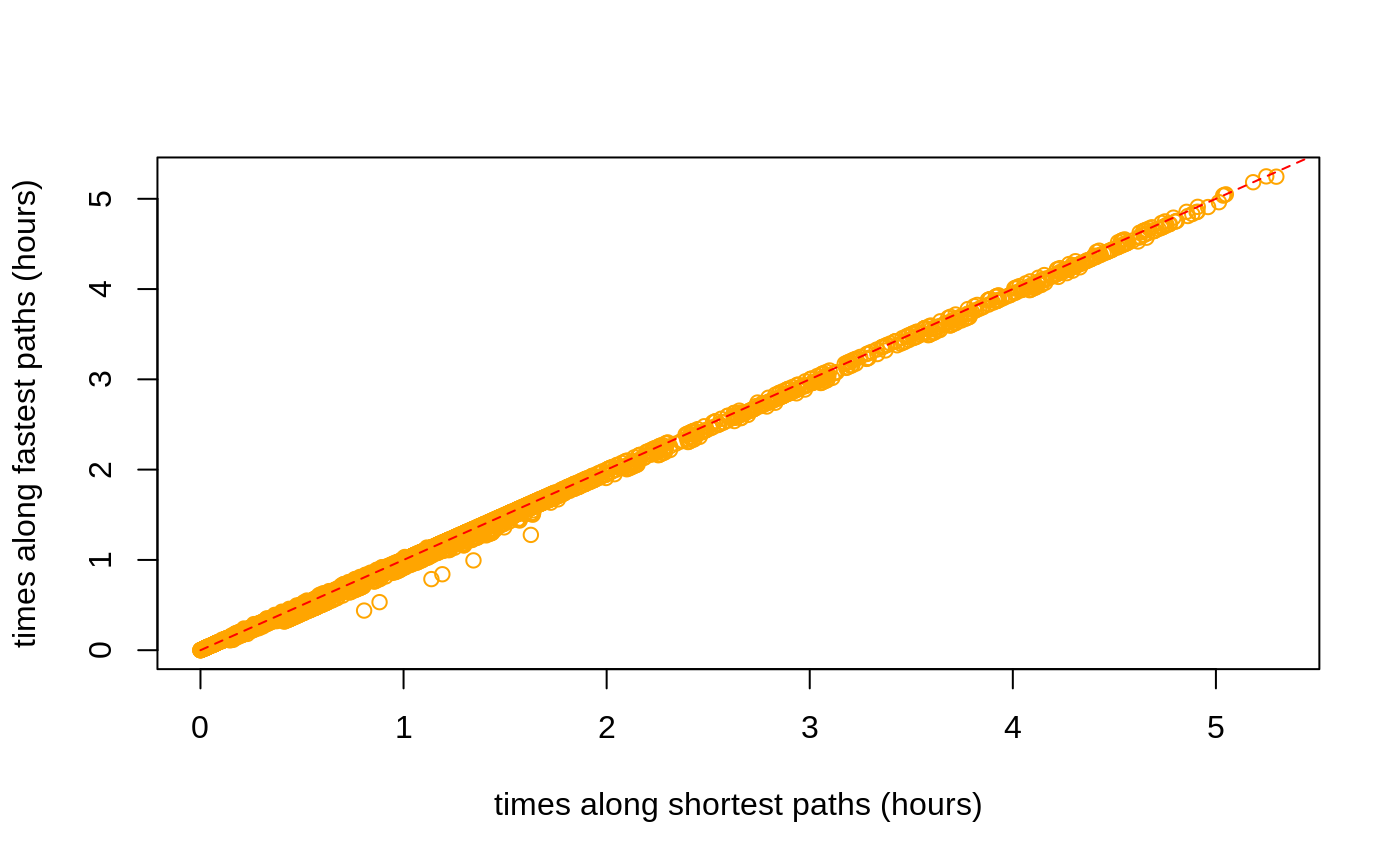
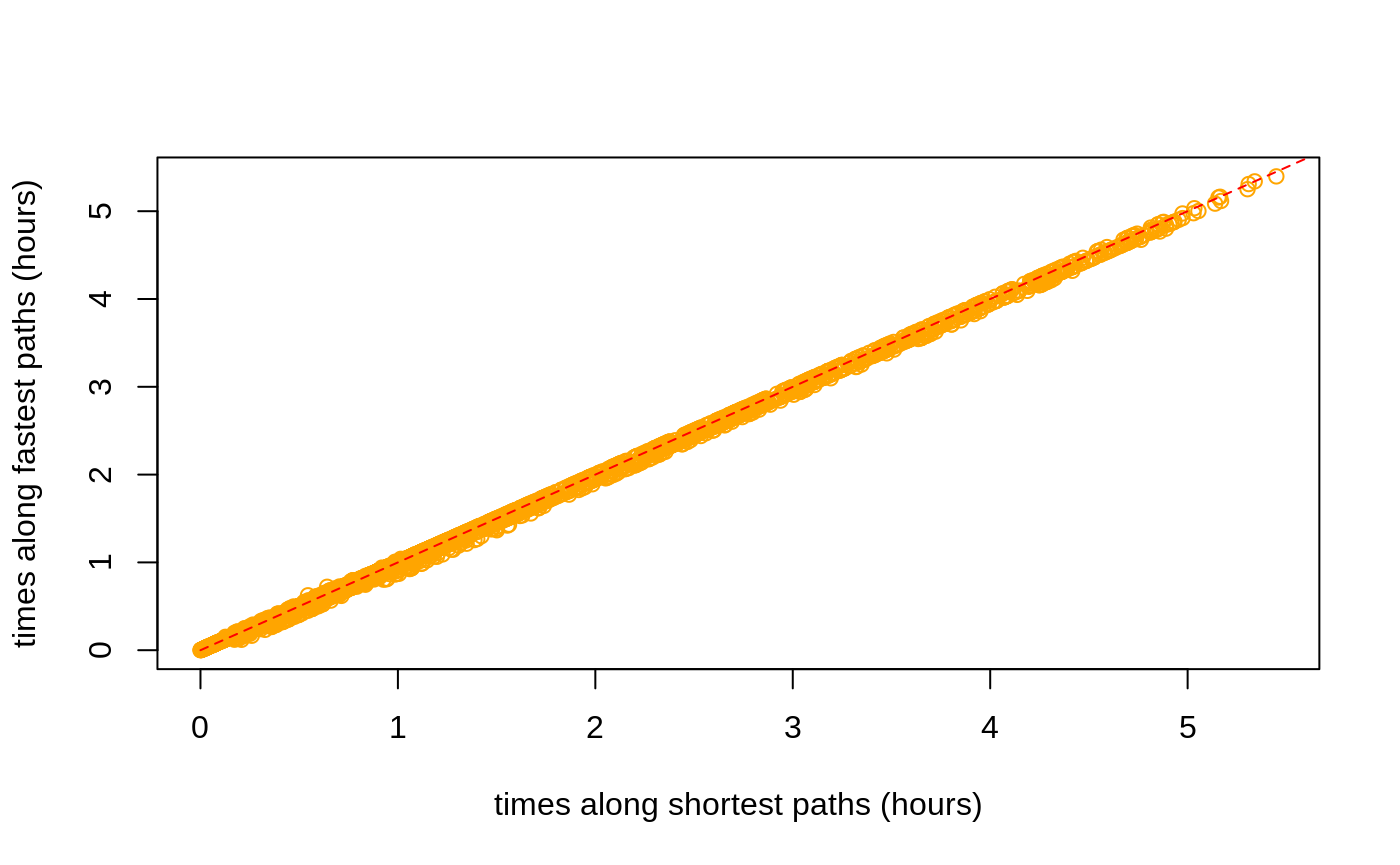
Built site for dodgr: 0.2.0.5@3d58140

diff --git a/articles/dodgr.html b/articles/dodgr.html
@@ -68,7 +68,7 @@
       <h1>dodgr</h1>
                         <h4 class="author">Mark Padgham</h4>
             
-            <h4 class="date">2019-08-14</h4>
+            <h4 class="date">2019-08-18</h4>
       
       <small class="dont-index">Source: <a href="https://github.com/ATFutures/dodgr/blob/master/vignettes/dodgr.Rmd"><code>vignettes/dodgr.Rmd</code></a></small>
       <div class="hidden name"><code>dodgr.Rmd</code></div>
@@ -344,7 +344,7 @@ Figure 2: A <strong>dual</strong>-weighted, directed graph in which the weights 
 <p>The <code>dodgr</code> packages includes a function to select a random connected portion of graph including a specified number of vertices. This function is used in the <a href="https://atfutures.github.io/dodgr/reference/compare_heaps.html"><code><a href="../reference/compare_heaps.html">compare_heaps()</a></code></a> function described below, but is also useful for general statistical analyses of large graphs which may otherwise take too long to compute.</p>
 <div class="sourceCode" id="cb59"><pre class="sourceCode r"><code class="sourceCode r"><a class="sourceLine" id="cb59-1" data-line-number="1">graph_sub &lt;-<span class="st"> </span><span class="kw"><a href="../reference/dodgr_sample.html">dodgr_sample</a></span> (graph, <span class="dt">nverts =</span> <span class="dv">100</span>)</a>
 <a class="sourceLine" id="cb59-2" data-line-number="2"><span class="kw"><a href="https://www.rdocumentation.org/packages/base/topics/nrow">nrow</a></span> (graph_sub)</a></code></pre></div>
-<pre><code>## [1] 201</code></pre>
+<pre><code>## [1] 199</code></pre>
 <p>The random sample has around twice as many edges as vertices, in accordance with the statistics calculated above.</p>
 <div class="sourceCode" id="cb61"><pre class="sourceCode r"><code class="sourceCode r"><a class="sourceLine" id="cb61-1" data-line-number="1"><span class="kw"><a href="https://www.rdocumentation.org/packages/base/topics/nrow">nrow</a></span> (<span class="kw"><a href="../reference/dodgr_vertices.html">dodgr_vertices</a></span> (graph_sub))</a></code></pre></div>
 <pre><code>## [1] 100</code></pre>
@@ -421,31 +421,31 @@ Figure 2: A <strong>dual</strong>-weighted, directed graph in which the weights 
 <p>The comparisons are actually made on a randomly selected sub-component of the graph containing a defined number of vertices (with a default of 1,000, or the entire graph if it contains fewer than 1,000 vertices).</p>
 <div class="sourceCode" id="cb77"><pre class="sourceCode r"><code class="sourceCode r"><a class="sourceLine" id="cb77-1" data-line-number="1"><span class="kw"><a href="../reference/compare_heaps.html">compare_heaps</a></span> (graph, <span class="dt">nverts =</span> <span class="dv">100</span>, <span class="dt">replications =</span> <span class="dv">1</span>)</a></code></pre></div>
 <pre><code>##                                                                                   test
-## 6       d &lt;- dodgr_dists(graph_contracted, from = from_id, to = to_id, heap = "BHeap")
+## 12                  d &lt;- igraph::distances(igr, v = from_id, to = to_id, mode = "out")
 ## 7       d &lt;- dodgr_dists(graph_contracted, from = from_id, to = to_id, heap = "FHeap")
 ## 8     d &lt;- dodgr_dists(graph_contracted, from = from_id, to = to_id, heap = "TriHeap")
 ## 9  d &lt;- dodgr_dists(graph_contracted, from = from_id, to = to_id, heap = "TriHeapExt")
 ## 10     d &lt;- dodgr_dists(graph_contracted, from = from_id, to = to_id, heap = "Heap23")
-## 12                  d &lt;- igraph::distances(igr, v = from_id, to = to_id, mode = "out")
-## 5                 d &lt;- dodgr_dists(graph, from = from_id, to = to_id, heap = "Heap23")
 ## 11        d &lt;- dodgr_dists(graph_contracted, from = from_id, to = to_id, heap = "set")
-## 1                  d &lt;- dodgr_dists(graph, from = from_id, to = to_id, heap = "BHeap")
-## 2                  d &lt;- dodgr_dists(graph, from = from_id, to = to_id, heap = "FHeap")
+## 5                 d &lt;- dodgr_dists(graph, from = from_id, to = to_id, heap = "Heap23")
+## 6       d &lt;- dodgr_dists(graph_contracted, from = from_id, to = to_id, heap = "BHeap")
 ## 3                d &lt;- dodgr_dists(graph, from = from_id, to = to_id, heap = "TriHeap")
 ## 4             d &lt;- dodgr_dists(graph, from = from_id, to = to_id, heap = "TriHeapExt")
+## 1                  d &lt;- dodgr_dists(graph, from = from_id, to = to_id, heap = "BHeap")
+## 2                  d &lt;- dodgr_dists(graph, from = from_id, to = to_id, heap = "FHeap")
 ##    replications elapsed relative user.self sys.self user.child sys.child
-## 6             1   0.002      1.0     0.002    0.000          0         0
-## 7             1   0.002      1.0     0.002    0.000          0         0
-## 8             1   0.002      1.0     0.002    0.000          0         0
-## 9             1   0.002      1.0     0.002    0.000          0         0
-## 10            1   0.002      1.0     0.002    0.000          0         0
-## 12            1   0.002      1.0     0.002    0.000          0         0
-## 5             1   0.003      1.5     0.003    0.000          0         0
-## 11            1   0.003      1.5     0.003    0.000          0         0
-## 1             1   0.004      2.0     0.005    0.000          0         0
-## 2             1   0.004      2.0     0.000    0.004          0         0
-## 3             1   0.004      2.0     0.004    0.000          0         0
-## 4             1   0.004      2.0     0.004    0.000          0         0</code></pre>
+## 12            1   0.001        1     0.001    0.000          0         0
+## 7             1   0.002        2     0.002    0.000          0         0
+## 8             1   0.002        2     0.003    0.000          0         0
+## 9             1   0.002        2     0.002    0.000          0         0
+## 10            1   0.002        2     0.003    0.000          0         0
+## 11            1   0.002        2     0.002    0.000          0         0
+## 5             1   0.003        3     0.003    0.000          0         0
+## 6             1   0.003        3     0.002    0.000          0         0
+## 3             1   0.004        4     0.005    0.000          0         0
+## 4             1   0.004        4     0.004    0.000          0         0
+## 1             1   0.005        5     0.005    0.000          0         0
+## 2             1   0.005        5     0.005    0.001          0         0</code></pre>
 <p>The key column of that <code>data.frame</code> is <code>relative</code>, which quantifies the relative performance of each test in relation to the best which is given a score of 1. <code>dodgr</code> using the default <code>heap = "BHeap"</code>, which is a binary heap priority queue, performs faster than <a href="https://igraph.org"><code>igraph</code></a> <span class="citation">(Csardi and Nepusz 2006)</span> for these graphs. Different kind of graphs will perform differently with different priority queue structures, and this function enables users to empirically discern the optimal heap for their kind of graph.</p>
 <p>Note, however, that this is not an entirely fair comparison, because <code>dodgr</code> calculates dual-weighted distances, whereas <a href="https://igraph.org"><code>igraph</code></a>—and indeed all other <strong>R</strong> packages—only directly calculate distances based on a single set of weights. Implementing dual-weighted routing in these cases requires explicitly re-tracing all paths and summing the second set of weights along each path. A time comparison in that case would be very strongly in favour of <code>dodgr</code>. Moreover, <code>dodgr</code> can convert graphs to contracted form through removing redundant vertices, as detailed in the following section. Doing so greatly improves performance with respect to <a href="https://igraph.org"><code>igraph</code></a>.</p>
 <p>For those wishing to do explicit comparisons themselves, the following code generates the <a href="https://igraph.org"><code>igraph</code></a> equivalent of <a href="https://atfutures.github.io/dodgr/reference/dodgr_distances.html"><code><a href="../reference/dodgr_distances.html">dodgr_distances()</a></code></a>, although of course for single-weighted graphs only:</p>
@@ -498,8 +498,8 @@ Figure 3: <strong>(A)</strong> Vertex#2 is redundant for routing calculations fr
 <pre><code>## [1] 672</code></pre>
 <div class="sourceCode" id="cb89"><pre class="sourceCode r"><code class="sourceCode r"><a class="sourceLine" id="cb89-1" data-line-number="1">verts &lt;-<span class="st"> </span><span class="kw"><a href="https://www.rdocumentation.org/packages/base/topics/sample">sample</a></span> (<span class="kw"><a href="../reference/dodgr_vertices.html">dodgr_vertices</a></span> (graph)<span class="op">$</span>id, <span class="dt">size =</span> <span class="dv">100</span>)</a>
 <a class="sourceLine" id="cb89-2" data-line-number="2"><span class="kw"><a href="https://www.rdocumentation.org/packages/utils/topics/head">head</a></span> (verts) <span class="co"># a character vector</span></a></code></pre></div>
-<pre><code>## [1] "3697942891" "3921523908" "1691496251" "6410121123" "2627465891"
-## [6] "2588146013"</code></pre>
+<pre><code>## [1] "339288566"  "5351394645" "2398958044" "3697938723" "1376769186"
+## [6] "2588146042"</code></pre>
 <div class="sourceCode" id="cb91"><pre class="sourceCode r"><code class="sourceCode r"><a class="sourceLine" id="cb91-1" data-line-number="1">grc &lt;-<span class="st"> </span><span class="kw"><a href="../reference/dodgr_contract_graph.html">dodgr_contract_graph</a></span> (graph, verts)</a>
 <a class="sourceLine" id="cb91-2" data-line-number="2"><span class="kw"><a href="https://www.rdocumentation.org/packages/base/topics/nrow">nrow</a></span> (grc)</a></code></pre></div>
 <pre><code>## [1] 850</code></pre>
@@ -543,36 +543,40 @@ Figure 3: <strong>(A)</strong> Vertex#2 is redundant for routing calculations fr
 <pre><code>## [1] 10</code></pre>
 <p>The result (<code>dp</code>) is a list of 10 items, each of which contains 5 vectors. An example is,</p>
 <div class="sourceCode" id="cb98"><pre class="sourceCode r"><code class="sourceCode r"><a class="sourceLine" id="cb98-1" data-line-number="1">dp [[<span class="dv">1</span>]] [[<span class="dv">1</span>]]</a></code></pre></div>
-<pre><code>##  [1] "1376768507" "1376768870" "1376768383" "1376768862" "1376768464"
-##  [6] "1376768828" "1376769110" "3697937607" "3697937608" "3697937609"
-## [11] "3697937616" "3697937612" "3697937611" "3697937613" "3697937614"
-## [16] "3697937615" "3697937610" "3697937571" "3697938325" "3697938326"
-## [21] "3697938327" "3697938328" "3697938332" "3697938329" "3697938330"
-## [26] "3697938331" "3697938336" "3697938337" "3697938338" "3697938333"
-## [31] "3697938334" "3697938335" "3697938022" "3697938021" "3697938023"
-## [36] "3697938024" "338904455"  "2398957843" "338908589"  "1148814896"
-## [41] "286632900"  "2398957865" "676875132"  "1148815150" "286632901" 
-## [46] "2398957883" "2398957885" "339574320"  "2627477682" "2627477678"
-## [51] "3456932070" "2627477679" "2627477677" "2627477680" "2627477681"
-## [56] "4474520825" "977478643"  "339059758"  "245631133"  "4474520824"
-## [61] "1676740773" "977478675"  "339059754"  "2636414338" "2636414331"
-## [66] "339318467"  "2636414337" "339318470"  "339318471"  "339318473" 
-## [71] "339318476"  "339318477"  "339318478"  "339318479"  "1148814933"
-## [76] "339318480"  "339318481"  "1148815066" "1148815206" "339318482" 
-## [81] "1148814860" "676875314"  "339318483"  "1148814991" "339318484" 
-## [86] "339318485"  "571423743"  "571423745"  "571423747"  "571423749" 
-## [91] "571423751"  "571423753"  "571423754"  "571423755"</code></pre>
+<pre><code>##   [1] "3456932083" "3456932082" "3456932081" "3456932080" "3456932079"
+##   [6] "3456932078" "2195425009" "2195425008" "2195425007" "2195425006"
+##  [11] "2195425001" "3921514726" "5358983984" "3921514728" "3921514727"
+##  [16] "3921514722" "3921514724" "3921514719" "3921514721" "3921514723"
+##  [21] "3921514720" "3921514718" "571423169"  "571423164"  "571423157" 
+##  [26] "2627444773" "2627444772" "2627444771" "571423824"  "571423823" 
+##  [31] "571423821"  "571423820"  "1143452467" "2627444770" "571423819" 
+##  [36] "1143452332" "571423818"  "571423815"  "571423809"  "1143452536"
+##  [41] "1143452116" "571423799"  "1143452264" "571423793"  "3697940693"
+##  [46] "3697940688" "1143452506" "1143452099" "1143452234" "1143452360"
+##  [51] "1143452063" "1143452135" "1143452293" "1143452415" "1143452087"
+##  [56] "1143452174" "1143452183" "1143452379" "1143452262" "1143452410"
+##  [61] "1143452232" "2627440424" "2627440420" "1143452145" "1143452534"
+##  [66] "1143452383" "1143452207" "1143452113" "1143452463" "1143452327"
+##  [71] "1143452165" "2627428625" "2627428633" "2627428631" "2627428628"
+##  [76] "2627428627" "2627428629" "2627428647" "2627428637" "2627430653"
+##  [81] "2627428651" "2627428638" "2627428646" "2627428641" "2627428645"
+##  [86] "3921511679" "3921511680" "3921511681" "3921511689" "3921511690"
+##  [91] "3921511688" "3921511687" "3921511677" "3921511678" "3921511685"
+##  [96] "3921511676" "3921511682" "3921511686" "3921511683" "1143452479"
+## [101] "1148815260" "977472750"  "1148814822" "1148814946" "977472903" 
+## [106] "1148815081" "1148814710" "977472672"  "1148814873" "1148814998"
+## [111] "977472772"  "1148815136"</code></pre>
 <p>For spatial graphs, the coordinates of these paths can be obtained by extracting the vertices with <code><a href="../reference/dodgr_vertices.html">dodgr_vertices()</a></code> and matching the vertex IDs:</p>
 <div class="sourceCode" id="cb100"><pre class="sourceCode r"><code class="sourceCode r"><a class="sourceLine" id="cb100-1" data-line-number="1">verts &lt;-<span class="st"> </span><span class="kw"><a href="../reference/dodgr_vertices.html">dodgr_vertices</a></span> (graph)</a>
 <a class="sourceLine" id="cb100-2" data-line-number="2">path1 &lt;-<span class="st"> </span>verts [<span class="kw"><a href="https://www.rdocumentation.org/packages/base/topics/match">match</a></span> (dp [[<span class="dv">1</span>]] [[<span class="dv">1</span>]], verts<span class="op">$</span>id), ]</a>
 <a class="sourceLine" id="cb100-3" data-line-number="3"><span class="kw"><a href="https://www.rdocumentation.org/packages/utils/topics/head">head</a></span> (path1)</a></code></pre></div>
 <pre><code>##              id        x        y component    n
-## 2614 1376768507 76.46750 15.32840         1 1316
-## 2616 1376768870 76.46768 15.32839         1 1317
-## 2618 1376768383 76.46800 15.32842         1 1318
-## 2620 1376768862 76.46813 15.32844         1 1319
-## 2622 1376768464 76.46828 15.32861         1 1320
-## 2624 1376768828 76.46854 15.32877         1 1321</code></pre>
+## 4720 3456932083 76.47488 15.35090         2 2342
+## 4718 3456932082 76.47465 15.35104         2 2341
+## 4716 3456932081 76.47449 15.35135         2 2340
+## 4714 3456932080 76.47456 15.35192         2 2339
+## 4712 3456932079 76.47461 15.35203         2 2338
+## 4710 3456932078 76.47450 15.35250         2 2337</code></pre>
 <p>Paths calculated on contracted graphs will of course have fewer vertices than those calculated on full graphs.</p>
 </div>
 <div id="aggregated-flows" class="section level1">
@@ -616,7 +620,7 @@ Figure 3: <strong>(A)</strong> Vertex#2 is redundant for routing calculations fr
 <p>Most flows are zero because they have only been calculated between very few points in the graph.</p>
 <div class="sourceCode" id="cb105"><pre class="sourceCode r"><code class="sourceCode r"><a class="sourceLine" id="cb105-1" data-line-number="1"><span class="kw"><a href="https://www.rdocumentation.org/packages/base/topics/summary">summary</a></span> (graph_f<span class="op">$</span>flow)</a></code></pre></div>
 <pre><code>##    Min. 1st Qu.  Median    Mean 3rd Qu.    Max. 
-##   0.000   0.000   0.000   6.409   0.000  76.178</code></pre>
+##   0.000   0.000   0.000   5.078   0.000  79.369</code></pre>
 </div>
 <div id="flow-dispersal" class="section level2">
 <h2 class="hasAnchor">
@@ -626,7 +630,7 @@ Figure 3: <strong>(A)</strong> Vertex#2 is redundant for routing calculations fr
 <a class="sourceLine" id="cb107-2" data-line-number="2">graph_f &lt;-<span class="st"> </span><span class="kw"><a href="../reference/dodgr_flows_disperse.html">dodgr_flows_disperse</a></span> (graph, <span class="dt">from =</span> from, <span class="dt">dens =</span> dens)</a>
 <a class="sourceLine" id="cb107-3" data-line-number="3"><span class="kw"><a href="https://www.rdocumentation.org/packages/base/topics/summary">summary</a></span> (graph_f<span class="op">$</span>flow)</a></code></pre></div>
 <pre><code>##      Min.   1st Qu.    Median      Mean   3rd Qu.      Max. 
-## 0.000e+00 0.000e+00 0.000e+00 7.989e-06 0.000e+00 2.315e-02</code></pre>
+## 0.000e+00 0.000e+00 0.000e+00 7.692e-06 0.000e+00 2.203e-02</code></pre>
 </div>
 <div id="merging-directed-flows" class="section level2">
 <h2 class="hasAnchor">
@@ -636,7 +640,7 @@ Figure 3: <strong>(A)</strong> Vertex#2 is redundant for routing calculations fr
 <p>Resultant graphs produced by <a href="https://atfutures.github.io/dodgr/reference/merge_directed_flows.html"><code><a href="../reference/merge_directed_flows.html">merge_directed_flows()</a></code></a> only include those edges having non-zero flows, and so:</p>
 <div class="sourceCode" id="cb110"><pre class="sourceCode r"><code class="sourceCode r"><a class="sourceLine" id="cb110-1" data-line-number="1"><span class="kw"><a href="https://www.rdocumentation.org/packages/base/topics/nrow">nrow</a></span> (graph_f); <span class="kw"><a href="https://www.rdocumentation.org/packages/base/topics/nrow">nrow</a></span> (graph_undir) <span class="co"># the latter is much smaller</span></a></code></pre></div>
 <pre><code>## [1] 5973</code></pre>
-<pre><code>## [1] 1878</code></pre>
+<pre><code>## [1] 1781</code></pre>
 <p>The resultant graph can readily be merged with the original graph to regain the original data on vertex coordinates through</p>
 <div class="sourceCode" id="cb113"><pre class="sourceCode r"><code class="sourceCode r"><a class="sourceLine" id="cb113-1" data-line-number="1">graph &lt;-<span class="st"> </span>graph [graph_undir<span class="op">$</span>edge_id, ]</a>
 <a class="sourceLine" id="cb113-2" data-line-number="2">graph<span class="op">$</span>flow &lt;-<span class="st"> </span>graph_undir<span class="op">$</span>flow</a></code></pre></div>

diff --git a/articles/times.html b/articles/times.html
@@ -68,7 +68,7 @@
       <h1>Street networks and time-based routing</h1>
                         <h4 class="author">Mark Padgham</h4>
             
-            <h4 class="date">2019-08-14</h4>
+            <h4 class="date">2019-08-18</h4>
       
       <small class="dont-index">Source: <a href="https://github.com/ATFutures/dodgr/blob/master/vignettes/times.Rmd"><code>vignettes/times.Rmd</code></a></small>
       <div class="hidden name"><code>times.Rmd</code></div>
@@ -228,11 +228,11 @@ Figure 1: Graph modification to account for turn penalties, which introduces the
 <p><img src="times_files/figure-html/shortest-vs-fastest-1.png" width="700"></p>
 <p>The average distance between the two (in metres) is:</p>
 <div class="sourceCode" id="cb9"><pre class="sourceCode r"><code class="sourceCode r"><a class="sourceLine" id="cb9-1" data-line-number="1"><span class="kw"><a href="https://www.rdocumentation.org/packages/base/topics/mean">mean</a></span> (<span class="kw"><a href="https://www.rdocumentation.org/packages/base/topics/MathFun">abs</a></span> (d_time <span class="op">-</span><span class="st"> </span>d_dist), <span class="dt">na.rm =</span> <span class="ot">TRUE</span>)</a></code></pre></div>
-<pre><code>## [1] 59.46135</code></pre>
+<pre><code>## [1] 45.63766</code></pre>
 <p>The plot reveals that shortest distances are indeed somewhat shorter than distances along fastest paths, but also that some fastest paths are actually shorter than shortest paths:</p>
 <div class="sourceCode" id="cb11"><pre class="sourceCode r"><code class="sourceCode r"><a class="sourceLine" id="cb11-1" data-line-number="1">index &lt;-<span class="st"> </span><span class="kw"><a href="https://www.rdocumentation.org/packages/base/topics/which">which</a></span> (<span class="op">!</span><span class="kw"><a href="https://www.rdocumentation.org/packages/base/topics/NA">is.na</a></span> (d_time) <span class="op">&amp;</span><span class="st"> </span><span class="op">!</span><span class="kw"><a href="https://www.rdocumentation.org/packages/base/topics/NA">is.na</a></span> (d_dist))</a>
 <a class="sourceLine" id="cb11-2" data-line-number="2"><span class="kw"><a href="https://www.rdocumentation.org/packages/base/topics/length">length</a></span> (<span class="kw"><a href="https://www.rdocumentation.org/packages/base/topics/which">which</a></span> (d_time [index] <span class="op">&lt;</span><span class="st"> </span>d_dist [index])) <span class="op">/</span><span class="st"> </span><span class="kw"><a href="https://www.rdocumentation.org/packages/base/topics/length">length</a></span> (index)</a></code></pre></div>
-<pre><code>## [1] 0.02497343</code></pre>
+<pre><code>## [1] 0.025</code></pre>
 <p>While <code>dodgr</code> and indeed all routing engines attempt to maximally reconcile differences between fastest and shortest routes, there nevertheless remain important discrepancies. Foremost among these, and the primary reason why some fastest routes may in fact be shorter than shortest routes, is that fastest routes allocate preferences for different kinds of way based both on the <code>value</code> column in the <code>weighting_profiles$weighting_profiles</code> table illustrated above, and on the actual maximum speed of a given edge, which itself may be a combination of maximum speeds as specified in OSM itself, maximum speeds from the <code>weighting_profiles$weighting_profiles</code> table, or values specific to a given surface. The result is that some unique combination of maximum speeds along a network may lead to <em>fastest</em> routes being preferentially directed along a path that is actually shorter than the direct shortest path which is calculated independent of maximum speed values.</p>
 <p>Such discrepancies are important in understanding differences in routes <em>times</em> calculated along shortest versus fastest paths. These times can be calculated (in seconds) with the <a href="https://atfutures.github.io/dodgr/reference/dodgr_times.html"><code><a href="../reference/dodgr_times.html">dodgr_times()</a></code></a> function:</p>
 <div class="sourceCode" id="cb13"><pre class="sourceCode r"><code class="sourceCode r"><a class="sourceLine" id="cb13-1" data-line-number="1">t_dist &lt;-<span class="st"> </span><span class="kw"><a href="../reference/dodgr_times.html">dodgr_times</a></span> (graph, <span class="dt">from =</span> from, <span class="dt">to =</span> to, <span class="dt">shortest =</span> <span class="ot">TRUE</span>) <span class="co"># default</span></a>
@@ -243,11 +243,11 @@ Figure 1: Graph modification to account for turn penalties, which introduces the
 <a class="sourceLine" id="cb13-6" data-line-number="6"><span class="kw"><a href="https://www.rdocumentation.org/packages/graphics/topics/lines">lines</a></span> (<span class="dv">0</span><span class="op">:</span><span class="dv">100</span>, <span class="dv">0</span><span class="op">:</span><span class="dv">100</span>, <span class="dt">col =</span> <span class="st">"red"</span>, <span class="dt">lty =</span> <span class="dv">2</span>)</a></code></pre></div>
 <p><img src="times_files/figure-html/shortest-vs-fastest-times-1.png" width="700"></p>
 <div class="sourceCode" id="cb14"><pre class="sourceCode r"><code class="sourceCode r"><a class="sourceLine" id="cb14-1" data-line-number="1"><span class="kw"><a href="https://www.rdocumentation.org/packages/base/topics/mean">mean</a></span> (<span class="kw"><a href="https://www.rdocumentation.org/packages/base/topics/MathFun">abs</a></span> (t_time <span class="op">-</span><span class="st"> </span>t_dist), <span class="dt">na.rm =</span> <span class="ot">TRUE</span>)</a></code></pre></div>
-<pre><code>## [1] 59.44737</code></pre>
+<pre><code>## [1] 48.49994</code></pre>
 <p>As above, times along fastest paths are generally less than times along shortest paths, although there are again a few exceptions:</p>
 <div class="sourceCode" id="cb16"><pre class="sourceCode r"><code class="sourceCode r"><a class="sourceLine" id="cb16-1" data-line-number="1">index &lt;-<span class="st"> </span><span class="kw"><a href="https://www.rdocumentation.org/packages/base/topics/which">which</a></span> (<span class="op">!</span><span class="kw"><a href="https://www.rdocumentation.org/packages/base/topics/NA">is.na</a></span> (t_time) <span class="op">&amp;</span><span class="st"> </span><span class="op">!</span><span class="kw"><a href="https://www.rdocumentation.org/packages/base/topics/NA">is.na</a></span> (t_dist))</a>
 <a class="sourceLine" id="cb16-2" data-line-number="2"><span class="kw"><a href="https://www.rdocumentation.org/packages/base/topics/length">length</a></span> (<span class="kw"><a href="https://www.rdocumentation.org/packages/base/topics/which">which</a></span> (t_dist [index] <span class="op">&lt;</span><span class="st"> </span>t_time [index])) <span class="op">/</span><span class="st"> </span><span class="kw"><a href="https://www.rdocumentation.org/packages/base/topics/length">length</a></span> (index)</a></code></pre></div>
-<pre><code>## [1] 0.02763018</code></pre>
+<pre><code>## [1] 0.01353383</code></pre>
 <p>These results demonstrate how the combination of the <a href="https://atfutures.github.io/dodgr/reference/dodgr_distances.html"><code><a href="../reference/dodgr_distances.html">dodgr_distances()</a></code></a> and <a href="https://atfutures.github.io/dodgr/reference/dodgr_times.html"><code><a href="../reference/dodgr_times.html">dodgr_times()</a></code></a> functions enable calculation of both distances and times along both shortest and fastest paths.</p>
 <div id="time-based-paths-and-flow-aggregation" class="section level2">
 <h2 class="hasAnchor">

diff --git a/reference/compare_heaps.html b/reference/compare_heaps.html
@@ -154,8 +154,8 @@ fair comparisons, run only once or re-start the current R session.</p>
     <h2 class="hasAnchor" id="examples"><a class="anchor" href="#examples"></a>Examples</h2>
     <pre class="examples"><div class='input'><span class='no'>graph</span> <span class='kw'>&lt;-</span> <span class='fu'><a href='weight_streetnet.html'>weight_streetnet</a></span> (<span class='no'>hampi</span>)
 <span class='fu'>compare_heaps</span> (<span class='no'>graph</span>, <span class='kw'>nverts</span> <span class='kw'>=</span> <span class='fl'>1000</span>, <span class='kw'>replications</span> <span class='kw'>=</span> <span class='fl'>1</span>)</div><div class='output co'>#&gt;                                                                                   test
-#&gt; 6       d &lt;- dodgr_dists(graph_contracted, from = from_id, to = to_id, heap = "BHeap")
 #&gt; 11        d &lt;- dodgr_dists(graph_contracted, from = from_id, to = to_id, heap = "set")
+#&gt; 6       d &lt;- dodgr_dists(graph_contracted, from = from_id, to = to_id, heap = "BHeap")
 #&gt; 7       d &lt;- dodgr_dists(graph_contracted, from = from_id, to = to_id, heap = "FHeap")
 #&gt; 8     d &lt;- dodgr_dists(graph_contracted, from = from_id, to = to_id, heap = "TriHeap")
 #&gt; 10     d &lt;- dodgr_dists(graph_contracted, from = from_id, to = to_id, heap = "Heap23")
@@ -163,22 +163,22 @@ fair comparisons, run only once or re-start the current R session.</p>
 #&gt; 12                  d &lt;- igraph::distances(igr, v = from_id, to = to_id, mode = "out")
 #&gt; 1                  d &lt;- dodgr_dists(graph, from = from_id, to = to_id, heap = "BHeap")
 #&gt; 2                  d &lt;- dodgr_dists(graph, from = from_id, to = to_id, heap = "FHeap")
-#&gt; 3                d &lt;- dodgr_dists(graph, from = from_id, to = to_id, heap = "TriHeap")
 #&gt; 5                 d &lt;- dodgr_dists(graph, from = from_id, to = to_id, heap = "Heap23")
+#&gt; 3                d &lt;- dodgr_dists(graph, from = from_id, to = to_id, heap = "TriHeap")
 #&gt; 4             d &lt;- dodgr_dists(graph, from = from_id, to = to_id, heap = "TriHeapExt")
 #&gt;    replications elapsed relative user.self sys.self user.child sys.child
-#&gt; 6             1   0.009    1.000     0.015        0          0         0
-#&gt; 11            1   0.009    1.000     0.015        0          0         0
-#&gt; 7             1   0.012    1.333     0.020        0          0         0
-#&gt; 8             1   0.012    1.333     0.020        0          0         0
-#&gt; 10            1   0.012    1.333     0.020        0          0         0
-#&gt; 9             1   0.013    1.444     0.014        0          0         0
-#&gt; 12            1   0.024    2.667     0.023        0          0         0
-#&gt; 1             1   0.036    4.000     0.062        0          0         0
-#&gt; 2             1   0.050    5.556     0.088        0          0         0
-#&gt; 3             1   0.052    5.778     0.092        0          0         0
-#&gt; 5             1   0.055    6.111     0.100        0          0         0
-#&gt; 4             1   0.057    6.333     0.057        0          0         0</div></pre>
+#&gt; 11            1   0.006    1.000     0.010        0          0         0
+#&gt; 6             1   0.007    1.167     0.009        0          0         0
+#&gt; 7             1   0.008    1.333     0.012        0          0         0
+#&gt; 8             1   0.008    1.333     0.013        0          0         0
+#&gt; 10            1   0.008    1.333     0.013        0          0         0
+#&gt; 9             1   0.009    1.500     0.009        0          0         0
+#&gt; 12            1   0.018    3.000     0.017        0          0         0
+#&gt; 1             1   0.029    4.833     0.049        0          0         0
+#&gt; 2             1   0.039    6.500     0.068        0          0         0
+#&gt; 5             1   0.039    6.500     0.070        0          0         0
+#&gt; 3             1   0.040    6.667     0.070        0          0         0
+#&gt; 4             1   0.043    7.167     0.043        0          0         0</div></pre>
   </div>
   <div class="col-md-3 hidden-xs hidden-sm" id="sidebar">
     <h2>Contents</h2>

diff --git a/reference/dodgr_sample.html b/reference/dodgr_sample.html
@@ -141,7 +141,7 @@ the requested <code>nverts</code>.</p>
     <h2 class="hasAnchor" id="examples"><a class="anchor" href="#examples"></a>Examples</h2>
     <pre class="examples"><div class='input'><span class='no'>graph</span> <span class='kw'>&lt;-</span> <span class='fu'><a href='weight_streetnet.html'>weight_streetnet</a></span> (<span class='no'>hampi</span>)
 <span class='fu'><a href='https://www.rdocumentation.org/packages/base/topics/nrow'>nrow</a></span> (<span class='no'>graph</span>) <span class='co'># 5,742</span></div><div class='output co'>#&gt; [1] 5973</div><div class='input'><span class='no'>graph</span> <span class='kw'>&lt;-</span> <span class='fu'>dodgr_sample</span> (<span class='no'>graph</span>, <span class='kw'>nverts</span> <span class='kw'>=</span> <span class='fl'>200</span>)
-<span class='fu'><a href='https://www.rdocumentation.org/packages/base/topics/nrow'>nrow</a></span> (<span class='no'>graph</span>) <span class='co'># generally around 400 edges</span></div><div class='output co'>#&gt; [1] 423</div><div class='input'><span class='fu'><a href='https://www.rdocumentation.org/packages/base/topics/nrow'>nrow</a></span> (<span class='fu'><a href='dodgr_vertices.html'>dodgr_vertices</a></span> (<span class='no'>graph</span>)) <span class='co'># 200</span></div><div class='output co'>#&gt; [1] 200</div></pre>
+<span class='fu'><a href='https://www.rdocumentation.org/packages/base/topics/nrow'>nrow</a></span> (<span class='no'>graph</span>) <span class='co'># generally around 400 edges</span></div><div class='output co'>#&gt; [1] 403</div><div class='input'><span class='fu'><a href='https://www.rdocumentation.org/packages/base/topics/nrow'>nrow</a></span> (<span class='fu'><a href='dodgr_vertices.html'>dodgr_vertices</a></span> (<span class='no'>graph</span>)) <span class='co'># 200</span></div><div class='output co'>#&gt; [1] 200</div></pre>
   </div>
   <div class="col-md-3 hidden-xs hidden-sm" id="sidebar">
     <h2>Contents</h2>

diff --git a/index.html b/index.html
@@ -511,7 +511,7 @@
 <td align="right">1</td>
 <td align="right">95.358362</td>
 <td align="right">119.197952</td>
-<td align="right">0</td>
+<td align="right">0.00000</td>
 </tr>
 <tr class="even">
 <td align="right">1</td>
@@ -529,7 +529,7 @@
 <td align="right">1</td>
 <td align="right">95.358362</td>
 <td align="right">119.197952</td>
-<td align="right">0</td>
+<td align="right">23.65691</td>
 </tr>
 <tr class="odd">
 <td align="right">1</td>
@@ -547,7 +547,7 @@
 <td align="right">1</td>
 <td align="right">6.399843</td>
 <td align="right">7.999803</td>
-<td align="right">0</td>
+<td align="right">0.00000</td>
 </tr>
 <tr class="even">
 <td align="right">1</td>
@@ -565,7 +565,7 @@
 <td align="right">1</td>
 <td align="right">6.399843</td>
 <td align="right">7.999803</td>
-<td align="right">0</td>
+<td align="right">23.65691</td>
 </tr>
 <tr class="odd">
 <td align="right">1</td>
@@ -583,7 +583,7 @@
 <td align="right">1</td>
 <td align="right">6.715106</td>
 <td align="right">8.393882</td>
-<td align="right">0</td>
+<td align="right">0.00000</td>
 </tr>
 <tr class="even">
 <td align="right">1</td>
@@ -601,7 +601,7 @@
 <td align="right">1</td>
 <td align="right">6.715106</td>
 <td align="right">8.393882</td>
-<td align="right">0</td>
+<td align="right">23.65691</td>
 </tr>
 </tbody>
 </table>

diff --git a/articles/benchmark.html b/articles/benchmark.html
@@ -68,7 +68,7 @@
       <h1>dodgr benchmark</h1>
                         <h4 class="author">Andreas Petutschnig</h4>
             
-            <h4 class="date">2019-08-14</h4>
+            <h4 class="date">2019-08-18</h4>
       
       <small class="dont-index">Source: <a href="https://github.com/ATFutures/dodgr/blob/master/vignettes/benchmark.Rmd"><code>vignettes/benchmark.Rmd</code></a></small>
       <div class="hidden name"><code>benchmark.Rmd</code></div>
